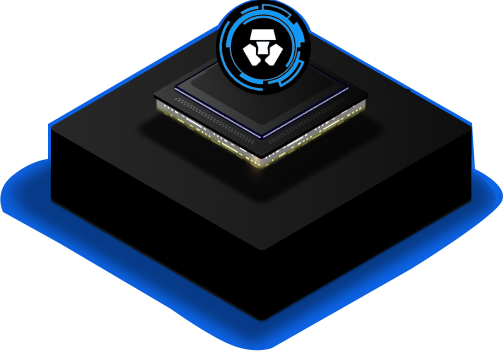
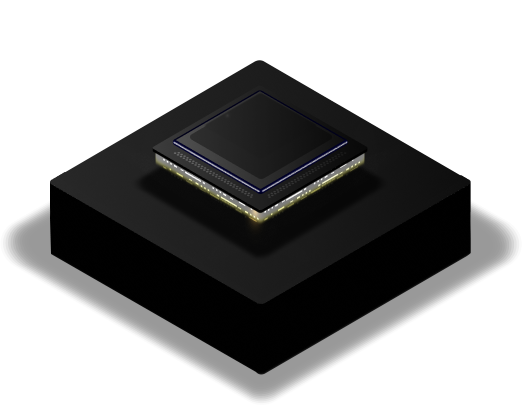
corrections

diff --git a/src/components/Home/TechnologySec.tsx b/src/components/Home/TechnologySec.tsx
@@ -12,7 +12,8 @@ export default function TechnologySec() {
           <Heading as="h3" data-aos="fade" data-aos-delay="300">Movin’ on UpToken </Heading>
           <Text data-aos="fade" data-aos-delay="400">UpTokens are highly volatile speculative assets that allow for price exposure to a paired asset while incorporating our ERC-31337 Pumpanomics for maximum value extraction. Using AMM pricing mechanisms, permanently locked liquidity pools and a fixed supply currency we are able to establish a price floor (or minimum lifetime value) for our token. Our ERC-31337 “ELITE” standard then allows us to sweep the tokens under the price floor and recapture that value in our vault, allowing for the reuse of the CRO within our system multiple times.</Text>
           <Box className='techno_img_prnt' data-aos="zoom-in" data-aos-delay="500">
-            <Image src="img/techno_img.png" alt='' className='techno_img pulse' />
+            <Image src="img/circle_img.png" alt='' className='circle_img pulse' />
+            <Image src="img/techno_img.png" alt='' className='techno_img' />
           </Box>
           <Box className='darkbg_btn_bx'>
             <Button className='btn_box_shedow' as="a" href='#'>ENTER APP</Button>

diff --git a/src/assets/css/App.scss b/src/assets/css/App.scss
@@ -605,9 +605,15 @@ body{
     .techno_img_prnt{
       margin-top: auto;
       margin-bottom: -15px;
+      position: relative;
       // img{
       //   mix-blend-mode: multiply;
       // }
+      .circle_img {
+        position: absolute;
+        left: 41%;
+        top: 12%;
+      }
     }
     .darkbg_btn_bx{
       background: #000000;
@@ -3191,7 +3197,15 @@ body{
     -webkit-transform: scale(1.08);
     transform: scale(1.08);
     }
-  }
-  
+  }  
 }
-
+@media screen and (max-width: 575px) {
+  .technology_main .tech_bg_box .techno_img_prnt {
+    .techno_img {
+      max-width: 300px;
+    }
+    .circle_img {
+      max-width: 55px;
+    }
+  }
+}
